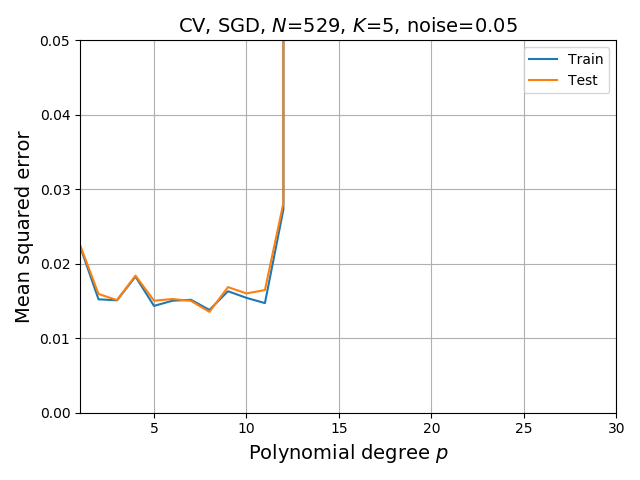
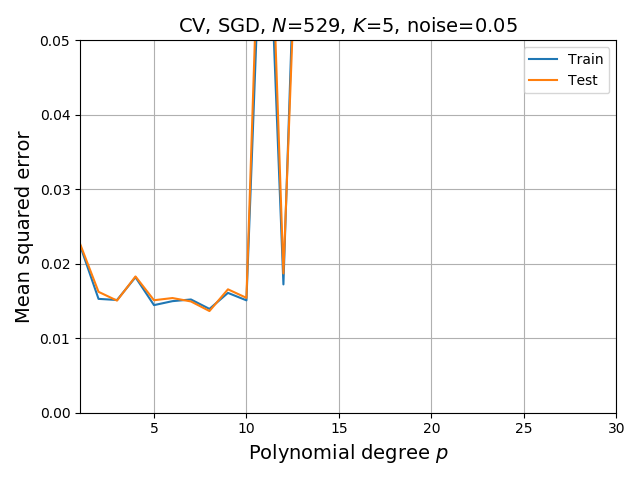
need to fix cost function

Changed region(s): [[0.3438, 0.0938, 0.4688, 0.625], [0.125, 0.5312, 0.3438, 0.6562]]

diff --git a/src/neural_network.py b/src/neural_network.py
@@ -1,7 +1,7 @@
 import numpy as np
 import sys
 import activation_functions as act_fun
-
+import functions as fun
 
 # TODO 03/11: Could remove some redundancy with taking in X_data / y_data in init and self.train
 # TODO: Could maybe make the train parameter optional?
@@ -14,8 +14,8 @@ class NeuralNetwork:
     ----------
     X_data: np.array
     """
-    def __init__(self, X_data, y_data, epochs, batch_size, eta, lmb, t0=1.0, t1=10.0):
-        np.random.seed(4155)
+    def __init__(self, X_data, y_data, epochs, batch_size, eta, lmb, learning_rate='constant', t0=1.0, t1=10.0):
+#        np.random.seed(4155)
 
         self._X_data = X_data
         self._y_data = y_data
@@ -27,6 +27,8 @@ class NeuralNetwork:
         self._y_batch = None
 
         # Learning rate parameters
+        self._learning_rate = learning_rate
+        self._eta0 = eta
         self._eta = eta
         self._t0 = t0
         self._t1 = t1
@@ -39,6 +41,7 @@ class NeuralNetwork:
         self._a = []
         self._z = []
         self._output = None
+        self._loss = []
         self._regularization = []  # TODO: figure out
         self._activation = []
         self._d_activation = []
@@ -73,9 +76,8 @@ class NeuralNetwork:
         for i in range(1, self._n_layers):
             self._z[i] = np.matmul(self._a[i-1], self._weights[i]) + self._bias[i]
  #           self._z[i] = self._a[i-1] @ self._weights[i] + self._bias[i]  # identical hmm
-
             self._a[i] = self._activation[i](self._z[i])
-#            print('layer=', i, self._a[i].shape)
+
         self._output = self._a[-1]  # TODO: ...yes?
 
     def _back_propagation(self):
@@ -86,8 +88,14 @@ class NeuralNetwork:
         bias_gradient = [None] * self._n_layers  #list(range(self._n_layers))
         for i in range(self._n_layers - 1, 0, -1):
             if i == (self._n_layers - 1):
+                # TODO: Wait, this is cost function, right?
+#                error[i] = fun.mean_squared_error(self._y_batch, self._a[i])
+#                error[i] = np.sum((y_data-y_model)**2)/n
+                error[i] = (self._a[i]-self._y_batch)**2
                 error[i] = self._a[i] - self._y_batch  # TODO: what?
 #                error[i] = self._output - self._y_batch  # TODO: what?
+#                print(error[i].shape)
+                self._loss.append(error[i][0])
             else:
                 error[i] = np.matmul(error[i+1], self._weights[i+1].T) * self._d_activation[i](self._z[i])
 #            print(i, self._a[i].shape, error[i].shape, self._y_batch.shape)
@@ -121,15 +129,20 @@ class NeuralNetwork:
                 batch_indices = np.random.choice(data_indices, size=self._batch_size, replace=False)
 
                 self._X_batch = self._X_data[batch_indices]
-                self._y_batch = self._y_data[batch_indices].reshape(-1, 1)  # TODO: check resample, shapes are weird
+                self._y_batch = (self._y_data[batch_indices].reshape(-1, 1))#.copy()  # TODO: check resample, shapes are weird
                 # TODO: yeah, reshaping changes shit when different batch sizes than 1
-                self._a[0] = self._X_batch  # kinda superfluous to have both this and X_batch
+                self._a[0] = self._X_batch#.copy()  # kinda superfluous to have both this and X_batch
 
+#                print(i, j)
                 self._feed_forward()
+                if self._learning_rate == 'optimal':
+                    self._eta = self._learning_schedule(self._epochs*self._n_minibatch + i)
                 self._back_propagation()
+#                self._loss.append(self._[0])  # to see how loss function goes over time
+
 
     def predict(self, X):
-        self._a[0] = X
+        self._a[0] = X#.copy()
         self._feed_forward()
         return self._output
 

diff --git a/src/task_b.py b/src/task_b.py
@@ -16,7 +16,6 @@ fig_path = '../figures/'
 data_path = '../datafiles/'
 write_path = '../datafiles/'
 
-p = 15  # degree of polynomial for the task
 scale = [True, False]  # first index is whether to subtract mean, second is to scale by std
 
 test_size = 0.2
@@ -51,14 +50,15 @@ act_func_layers = ['logistic', 'identity']
 # Stochastic gradient descent parameters
 N_epochs = 50  # Number of epochs in SGD
 batch_size = 1  # size of each mini-batch
-N_minibatch = int(N/batch_size)  # Number of mini-batches
+N_minibatch = int(N/batch_size)  # Number of mini-batches  # TODO: DOES NOT TAKE TRAIN TEST SPLIT INTO ACCOUNT
 eta0 = 0.1  # Start training rate
-learning_rate = 'meow'  # constant
+learning_rate = 'optimal'  # constant
+t0 = 5
+t1 = 100
 
 # Benchmark settings
 benchmark = False  # setting to True will adjust all relevant settings for all task
 if benchmark is True:
-    p = 5
     scale = [True, False]
 #    reg_str = 'SGD'  # set to SGD maybe since thats the point of the task
     n_franke = 23
@@ -72,7 +72,7 @@ if benchmark is True:
 
 
 # Printing some information for logging purposes
-fun.print_parameters_franke(seed, N, noise, p, scale, test_size)
+fun.print_parameters_franke(seed, N, noise, 0, scale, test_size)  # TODO: fix p dependence
 
 
 # Randomly generated meshgrid
@@ -92,7 +92,10 @@ y_ravel = np.ravel(y_mesh)
 z_ravel = np.ravel(z_mesh)
 
 # Creating polynomial design matrix
-X = fun.generate_polynomial(x_ravel, y_ravel, p)
+X = np.zeros((x_ravel.shape[0], 2))  # TODO: see if an easier way to do this with meshgrid?
+X[:, 0] = x_ravel
+X[:, 1] = y_ravel
+#X = fun.generate_polynomial(x_ravel, y_ravel, p)
 
 # Split into train and test, and scale data
 X_train, X_test, z_train, z_test = fun.split_data(X, z_ravel, test_size=test_size)
@@ -101,9 +104,12 @@ X_test_scaled = fun.scale_X(X_test, scale)
 #X_scaled = fun.scale_X(X, scale)
 
 lmb = 0.0
+X_train_copy =X_train_scaled.copy()
+X_test_copy = X_test_scaled.copy()
 
 # Create feed-forward neural net
-neural_net = nn.NeuralNetwork(X_train_scaled, z_train, epochs=N_epochs, batch_size=batch_size, eta=eta0, lmb=lmb)
+neural_net = nn.NeuralNetwork(X_train_scaled, z_train, epochs=N_epochs, batch_size=batch_size, eta=eta0, lmb=lmb,
+                              learning_rate=learning_rate, t0=t0, t1=t1)
 for i in range(len(neuron_layers)):
     neural_net.add_layer(neuron_layers[i], act_func_layers[i])
 
@@ -130,12 +136,26 @@ fun.print_MSE_R2(z_test, z_pred, 'test', 'NN')
 
 # Maybe keras?
 neural_net_SKL = MLPRegressor(hidden_layer_sizes=(neuron_layers[0]), activation='logistic', solver='sgd',
-                              alpha=lmb, batch_size=batch_size, learning_rate_init=eta0, max_iter=N_epochs)
+                              alpha=lmb, batch_size=batch_size, learning_rate_init=eta0, max_iter=N_epochs,
+                              momentum=1.0, nesterovs_momentum=False)
 neural_net_SKL.fit(X_train_scaled, z_train)
 
 z_fit = neural_net_SKL.predict(X_train_scaled)
-z_test = neural_net_SKL.predict(X_test_scaled)
+z_pred = neural_net_SKL.predict(X_test_scaled)
 
 print('\nMLPRegressor:')
 fun.print_MSE_R2(z_train, z_fit, 'train', 'NN')
 fun.print_MSE_R2(z_test, z_pred, 'test', 'NN')
+
+fs = 16
+N_loss = len(neural_net._loss)
+i_epochs = [int(i*N_loss/N_epochs) for i in range(N_epochs)]
+indices = np.arange(N_loss)
+plt.plot(indices, neural_net._loss, label='loss')
+plt.plot(i_epochs, [0]*len(i_epochs), '+r', ms=9, label='epochs')
+plt.xlabel('iteration', fontsize=fs)
+plt.ylabel('loss', fontsize=fs)
+plt.title('Loss function over iteration', fontsize=fs)
+plt.grid('on')
+plt.legend()
+plt.show()

diff --git a/src/sgd.py b/src/sgd.py
@@ -126,7 +126,7 @@ if __name__ == '__main__':
     theta_linreg = np.linalg.inv(X.T @ X) @ (X.T @ y)
     print("Own inversion")
     print(theta_linreg)
-    sgdreg = SGDRegressor(max_iter = 50, penalty=None, eta0=0.1)
+    sgdreg = SGDRegressor(max_iter=50, penalty=None, eta0=0.1)
     sgdreg.fit(x,y.ravel())
     print("sgdreg from scikit")
     print(sgdreg.intercept_, sgdreg.coef_)
